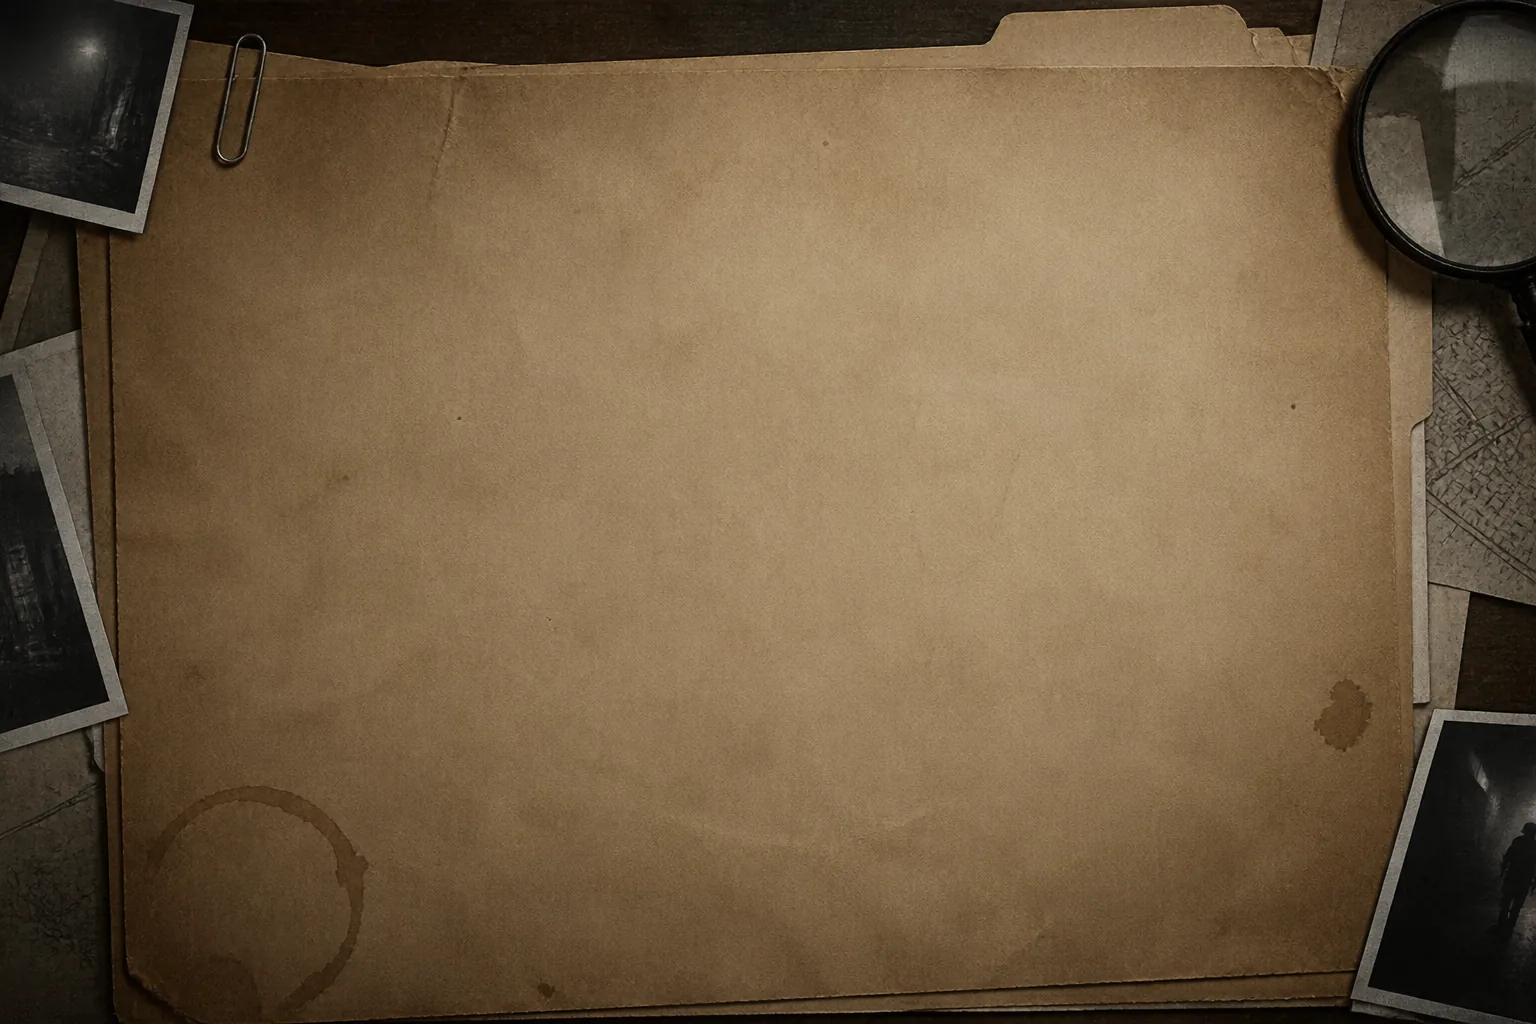
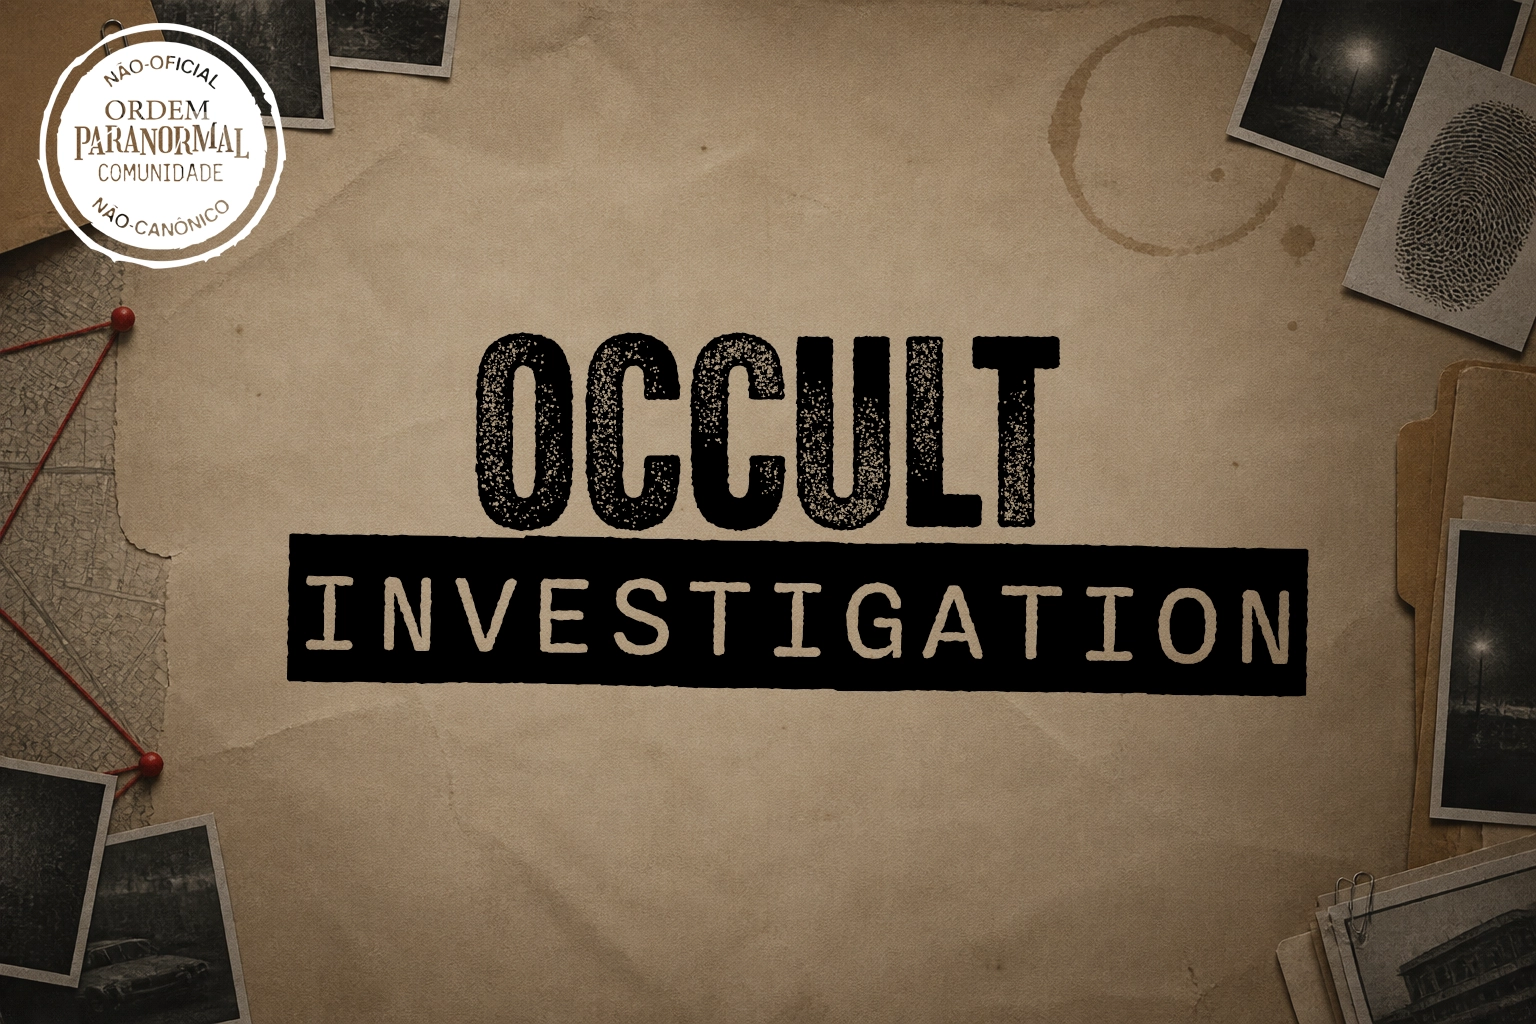
feat: add assets and community license notice for sdr-ocult ruleset

diff --git a/NOTICE.md b/NOTICE.md
@@ -1,0 +1,21 @@
+LICENÇA DA COMUNIDADE DE ORDEM PARANORMAL — AVISO DE CONFORMIDADE
+Versão 1.0 | Última atualização: 28/06/2026
+
+Este é um conteúdo não oficial, publicado sob a Licença da Comunidade de Ordem Paranormal.
+
+Este ruleset é um homebrew de fã criado para uso em Virtual Tabletops (VTTs), compatível
+com o sistema de Ordem Paranormal. Não é um produto oficial e não possui qualquer parceria,
+aprovação, supervisão ou endosso dos detentores dos direitos autorais de Ordem Paranormal
+(Rafael Lange / Cellbit e Jambô Editora).
+
+O conteúdo deste ruleset:
+- É baseado nas regras oficiais, mas não reproduz textos nem imagens dos livros originais.
+- Pode utilizar terminologias gerais do sistema, como os cinco atributos (Agilidade, Força,
+  Intelecto, Presença e Vigor), Pontos de Vida, Pontos de Esforço, Sanidade, Determinação,
+  NEX, Membrana, Outro Lado, os cinco Elementos (Sangue, Morte, Conhecimento, Energia e
+  Medo) e Ordo Realitas.
+- Não utiliza a marca "Ordem Paranormal", logos oficiais, nem sugere qualquer vínculo oficial.
+- Não reproduz personagens, lugares ou eventos específicos do cânone narrativo oficial.
+
+Para informações completas sobre a Licença da Comunidade de Ordem Paranormal, acesse:
+https://www.ordemparanormal.com.br/licenca
